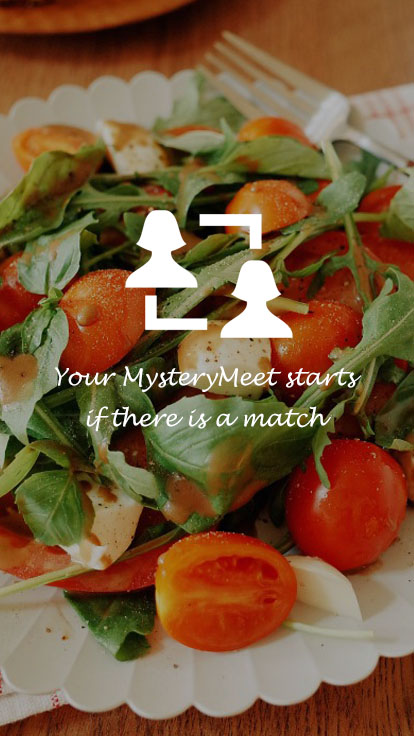
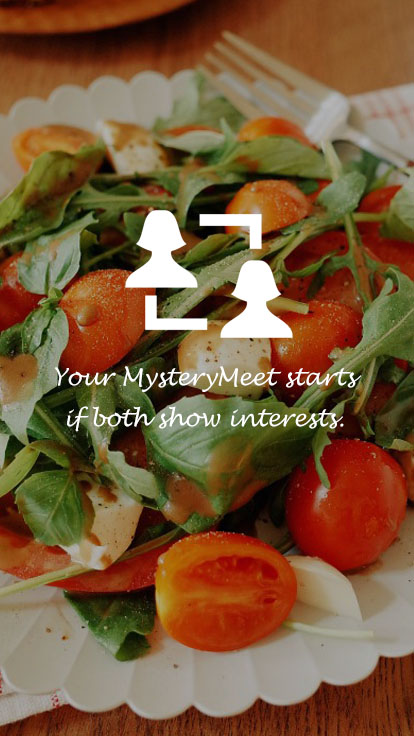
update tutorials

Changed region(s): [[0.1449, 0.5312, 0.8406, 0.5938]]

diff --git a/client/login.js b/client/login.js
@@ -15,14 +15,46 @@ Template.login.onRendered(function () {
 		interval: false
 	});
 
-	/*
-	$('#myCarousel').on('slide.bs.carousel', function (ev) {
-		var id = ev.relatedTarget.id;
-  		if (id == "last"){
-  			$(".right").remove();
-  		}	
+  $('#myCarousel').on('slide.bs.carousel', function (ev) {
+    var id = ev.relatedTarget.id;
+    if (id == "intro4"){
+        $(".right").attr("disabled", "disabled");
+        $("#login_intro4_2").delay(1000).animate({"opacity": "1"}, 700);
+        $("#login_intro4_3").delay(2000).animate({"opacity": "1"}, 700);
+        $(".right").removeAttr("disabled");
+    }
+  })
 
-	})
-	*/
 });
+
+/* trying to disable to right button
+Template.login.events({
+    "click .right": function (event) {
+      //console.log(event.target);
+
+      
+    $('#myCarousel').on('slide.bs.carousel', function (ev) {
+      var id = ev.relatedTarget.id;
+      if (id == "intro4"){
+          $(".right").attr("disabled", "disabled");
+          $(".right").delay(2000).removeAttr("disabled");
+      }
+    })
+    
+
+
+
+      if ($(event.target).is("[disabled]")) {
+        console.log("disable carousel right button");
+        event.preventDefault();
+      }
+      else {
+        console.log("not disabled");
+      }
+    }
+  });
+
+*/
+
+
 

diff --git a/client/login.html b/client/login.html
@@ -16,11 +16,11 @@
                 <div class="item active"><img src="images/intro1.jpg"/></div>
                 <div class="item"><img src="images/intro2.jpg"/></div>
                 <div class="item"><img src="images/intro3.jpg"/></div>
-                <div class="item"><img src="images/intro4_1.jpg"/></div>
-                <div class="item"><img src="images/intro4_2.jpg"/></div>
-                <div class="item"><img src="images/intro4_3.jpg"/></div>
+                <div class="item" id="intro4"><img src="images/intro4_1.jpg"/>
+                  <img id="login_intro4_2" src="images/intro4_2.png"/>
+                  <img id="login_intro4_3" src="images/intro4_3.png"/>
+                </div>
                 <div class="item" id="last"> <img src="images/intro5.jpg"/>
-
                           <div class="vertical-center">
             <div class="container">
                 <div id="login-button">

diff --git a/client/login.css b/client/login.css
@@ -1,0 +1,13 @@
+#login_intro4_2 {
+    opacity: 0;
+    position: absolute;
+    left: 0px;
+    top: 0px;
+}
+
+#login_intro4_3 {
+    opacity: 0;
+    position: absolute;
+    left: 0px;
+    top: 0px;
+}

diff --git a/client/stylesheets/main.css b/client/stylesheets/main.css
@@ -326,8 +326,8 @@ h4 { /* used for list itme title */
   line-height: 1.42857143;
   background-color: #fff;
   background-image: none;
-
   outline: none;
+  border-width: 0px;
 }
 
 .form-page {
